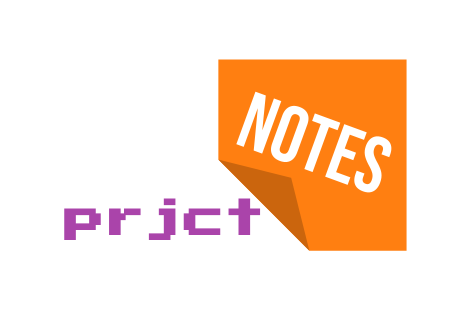
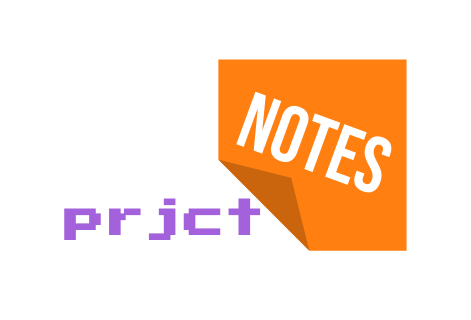
feat
made nav buttons responsive. Also changed the 'prjct' colour to a different purple.

Changed region(s): [[0.2972, 0.5938, 0.5648, 0.75], [0.1189, 0.625, 0.2972, 0.75]]

diff --git a/css/style.css b/css/style.css
@@ -59,6 +59,13 @@ body {
 
 }
 
+.logo {
+
+    width: 40%;
+    max-width: 200px;
+
+}
+
 nav {
 
     width: 100%;
@@ -88,27 +95,15 @@ nav li div a{
 
 }
 
-.themes_o, .themes_p {
+.themes_o, .log_in_o {
 
-    width: 100px;
+    width: calc(10vw);
+    max-width: 125px;
     transition: all 0.3s ease 0s;
 
 }
 
-.themes_o:hover, .themes_p:hover {
-
-    opacity: 0.8;
-
-}
-
-.log_in_o, .log_in_p {
-
-    width: 100px;
-    transition: all 0.3s ease 0s;
-
-}
-
-.log_in_o:hover, .log_in_p:hover {
+.themes_o:hover, .themes_p:hover, .log_in_o:hover, .log_in_p:hover {
 
     opacity: 0.8;
 
@@ -148,7 +143,7 @@ nav li div a{
 
 .footer_icons a:hover {
 
-    color: #aa44aa;
+    color: #a362dc;
 
 }
 

diff --git a/index.html b/index.html
@@ -16,7 +16,7 @@
 
             <div class="container">
 
-                <img class="logo" src="images/prjctNotesResize200px.png" alt="logo">
+                <img class="logo" src="images/prjctNotes.png" alt="logo">
             
                 <nav>
         
